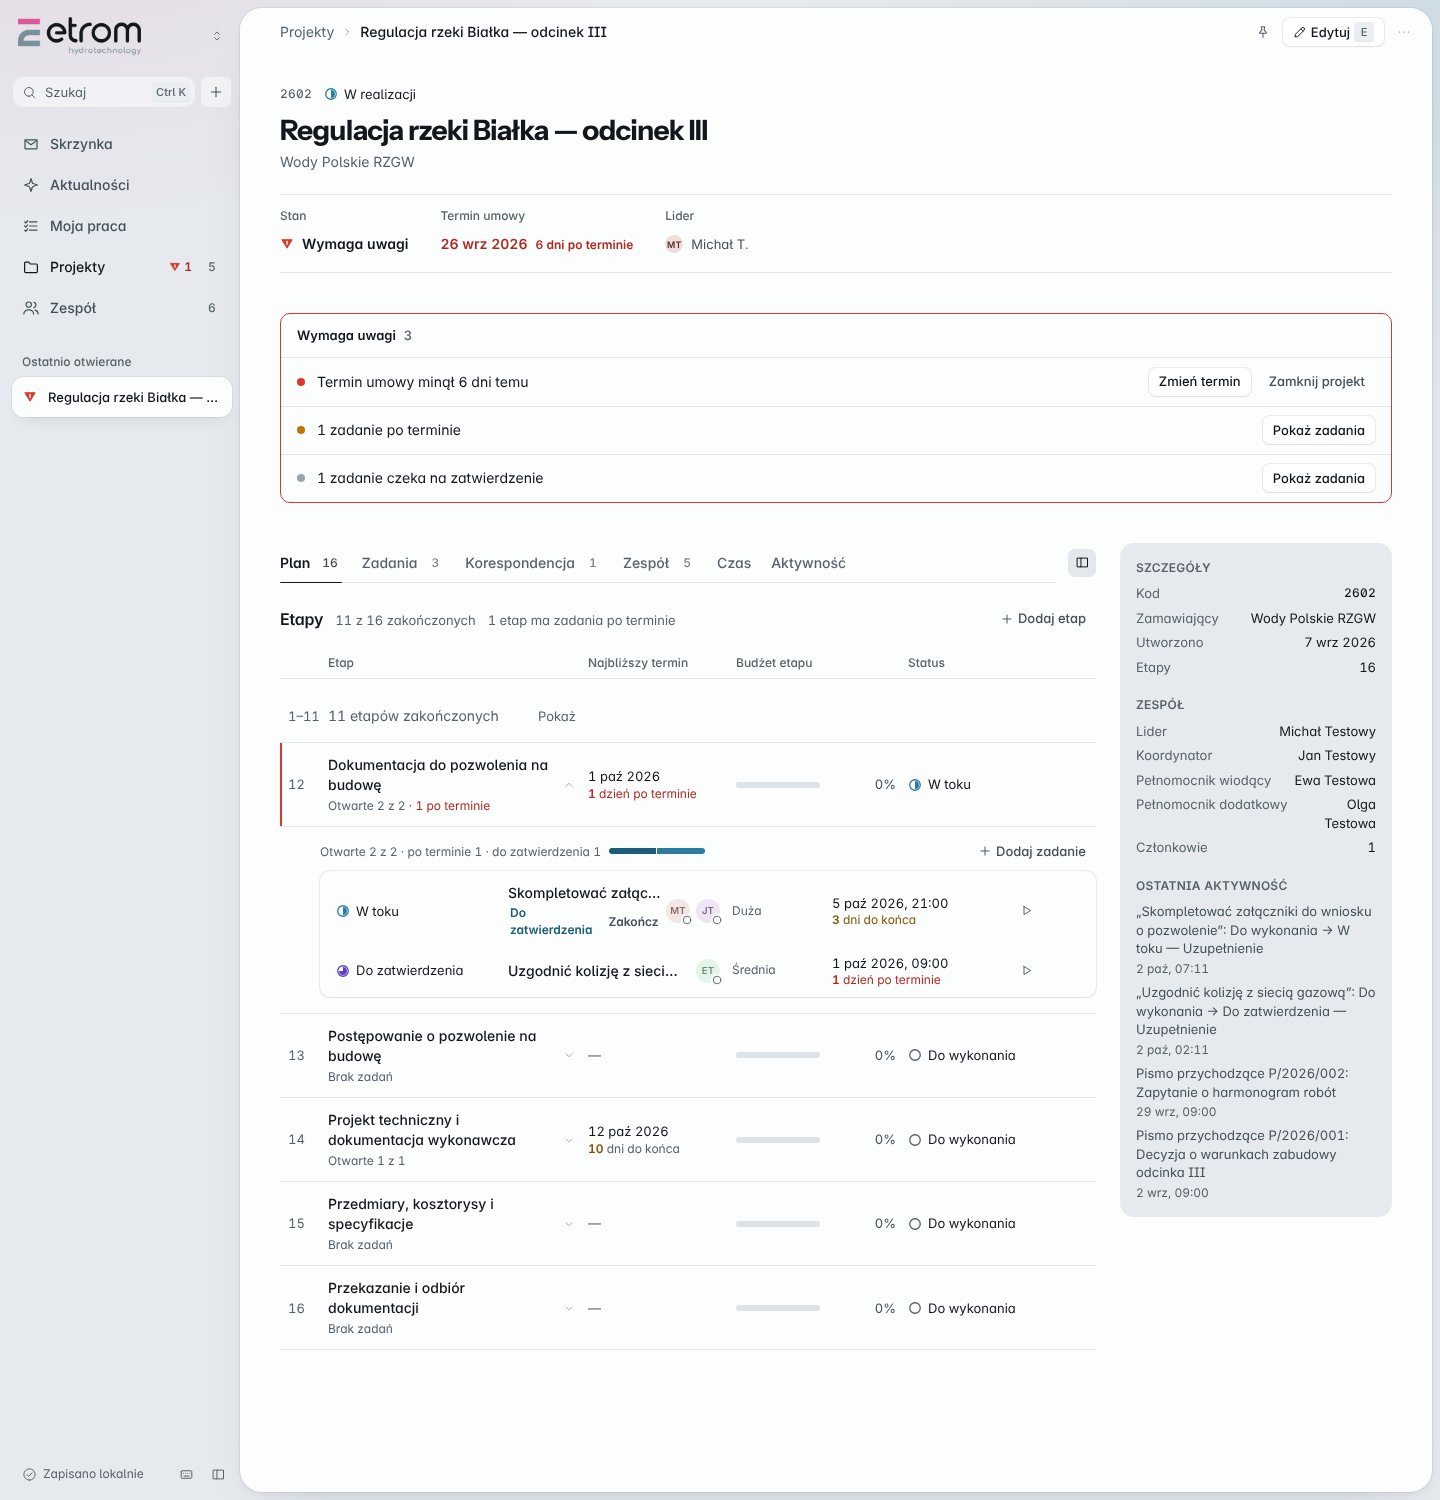
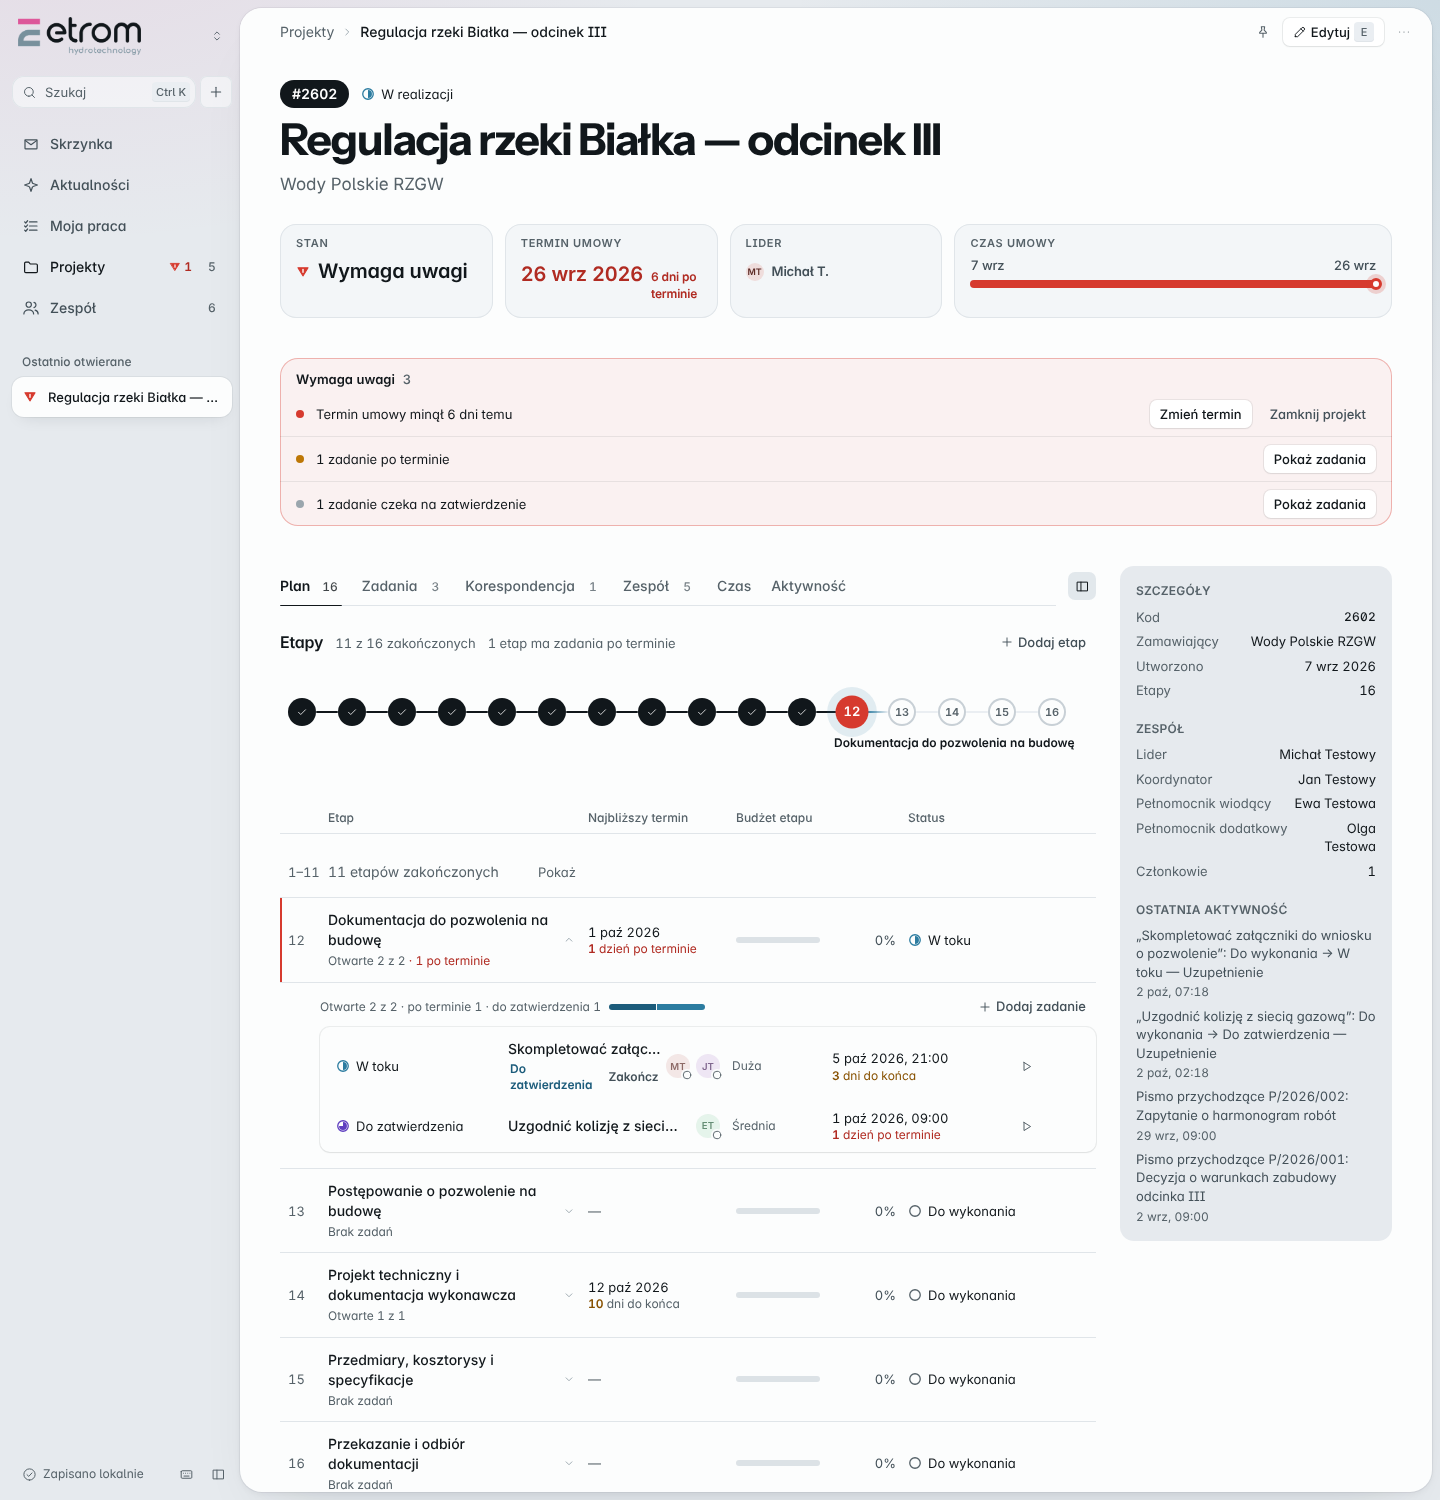
Widok projektu: kafelki wskaźników, wstęga czasu umowy, oś przebiegu etapów, miękki blok uwagi
Claude-Session: https://claude.ai/code/session_01K4hy1AbaUhrYWgauQ4MMbV

diff --git a/styles/polish.css b/styles/polish.css
@@ -77,3 +77,50 @@ body, .app {
 .pf-table .pf-leader > span:not(.avatar) { display: none; }
 .pf-table .col-team { width: 3.75rem; }
 .pf-table .col-time { width: 10.5rem; }
+
+/* =========================================================
+   Widok projektu
+   ========================================================= */
+.pd-head { gap: var(--space-2); }
+.pd-head__title { font-size: 2.75rem; font-weight: 700; letter-spacing: -0.035em; line-height: 1.08; }
+.pd-head__client { font-size: 1.0625rem; }
+.pd-head__id .pf-num--pill { font-size: var(--fs-md); padding: 4px 12px; }
+
+/* kafelki wskaźników */
+.pd-props { display: grid; grid-template-columns: repeat(auto-fit, minmax(11rem, 1fr)); gap: var(--space-3); padding: 0; border: 0; margin-top: var(--space-5); }
+.pd-prop { padding: var(--space-3) var(--space-4); border-radius: 16px; background: var(--wash); box-shadow: inset 0 0 0 1px var(--line); align-content: start; }
+.pd-prop__label { text-transform: uppercase; letter-spacing: .06em; font-size: .6875rem; font-weight: 600; }
+.pd-prop__value { font-size: 1.25rem; font-weight: 650; letter-spacing: -0.01em; }
+.pd-prop--ribbon { grid-column: span 2; }
+.pd-prop--ribbon .pc-ribbon { width: 100%; --pc-accent: var(--flow); margin: 0; padding: 0; }
+.pd-prop--ribbon .pc-ribbon__dates { font-size: var(--fs-sm); font-weight: 500; color: var(--ink-2); }
+.pd-prop--ribbon .pc-ribbon__track { height: 8px; }
+.pd-prop--ribbon .pc-ribbon.is-late { --pc-accent: var(--alarm); }
+.pd-edit { font-size: inherit; }
+.pd-edit .t-num { font-weight: 650; }
+
+/* „Wymaga uwagi” — miękki panel zamiast ramki */
+.pd-attention { border: 0; border-radius: 18px; background: var(--wash); box-shadow: inset 0 0 0 1px var(--line); overflow: hidden; }
+.pd-attention:has(.pd-attention__item--alarm) { background: color-mix(in srgb, var(--alarm) 6%, var(--sheet)); box-shadow: inset 0 0 0 1px color-mix(in srgb, var(--alarm) 35%, transparent); }
+.pd-attention:has(.pd-attention__item--warning):not(:has(.pd-attention__item--alarm)) { background: color-mix(in srgb, var(--warn) 7%, var(--sheet)); box-shadow: inset 0 0 0 1px color-mix(in srgb, var(--warn) 35%, transparent); }
+.pd-attention__title { border-bottom: 0; padding-bottom: var(--space-1); }
+.pd-attention__item { min-height: 2.5rem; }
+.pd-attention__item + .pd-attention__item { border-top: 1px solid color-mix(in srgb, var(--ink) 8%, transparent); }
+.pd-attention__text { font-size: var(--fs-sm); }
+
+/* oś przebiegu */
+.jr { display: flex; align-items: flex-start; gap: 0; margin: var(--space-4) 0 var(--space-5); padding: var(--space-3) var(--space-2) 2.75rem; overflow-x: auto; list-style: none; scrollbar-width: thin; }
+.jr__node { position: relative; display: flex; flex: 1 0 auto; min-width: 1.75rem; align-items: flex-start; }
+.jr__node:not(:last-child)::after { content: ""; position: absolute; left: 1.75rem; right: 0; top: 13px; height: 2px; background: var(--wash-2); border-radius: 2px; }
+.jr__node--done:not(:last-child)::after { background: var(--ink); }
+.jr__node.is-current:not(:last-child)::after { background: linear-gradient(90deg, var(--flow), var(--wash-2)); }
+.jr__dot { position: relative; z-index: 1; display: grid; place-items: center; flex: none; width: 1.75rem; height: 1.75rem; border-radius: 50%; background: var(--sheet); box-shadow: inset 0 0 0 2px var(--line-strong); color: var(--ink-3); font-size: .6875rem; font-weight: 600; }
+.jr__node--done .jr__dot { background: var(--ink); box-shadow: none; color: var(--on-ink); }
+.jr__node--working .jr__dot { background: var(--flow); box-shadow: 0 0 0 5px var(--flow-ring); color: #fff; }
+.jr__node.is-current .jr__dot { transform: scale(1.18); }
+.jr__node--working.is-current .jr__dot { animation: jr-pulse 2.4s ease-in-out infinite; }
+.jr__node.is-late .jr__dot { box-shadow: 0 0 0 3px var(--alarm-wash), inset 0 0 0 2px var(--alarm); color: var(--alarm-ink); }
+.jr__node--working.is-late .jr__dot { background: var(--alarm); color: #fff; box-shadow: 0 0 0 5px var(--alarm-wash); }
+.jr__label { position: absolute; top: 2.25rem; left: -0.25rem; white-space: nowrap; font-size: var(--fs-xs, .75rem); font-weight: 600; color: var(--ink); }
+@keyframes jr-pulse { 0%, 100% { box-shadow: 0 0 0 4px var(--flow-ring); } 50% { box-shadow: 0 0 0 9px transparent; } }
+@media (prefers-reduced-motion: reduce) { .jr__node--working.is-current .jr__dot { animation: none; } }

diff --git a/src/ui/stageList.js b/src/ui/stageList.js
@@ -174,6 +174,22 @@
     return n;
   }
 
+  /** Oś przebiegu: jedna kropka na etap — zakończone, w toku (świeci), zaległe, przyszłe. */
+  function journey(project, ctx) {
+    var firstOpen = -1;
+    project.stages.forEach(function (st, i) { if (firstOpen < 0 && st.status !== 'done') firstOpen = i; });
+    var nodes = project.stages.map(function (stage, index) {
+      var late = stage.status !== 'done' && Tasks.taskStats(stage.tasks || []).overdue > 0;
+      var state = stage.status === 'done' ? 'done' : (stage.status === 'working' ? 'working' : 'todo');
+      var current = index === firstOpen;
+      return D.el('li', { class: 'jr__node jr__node--' + state + (late ? ' is-late' : '') + (current ? ' is-current' : ''), attrs: { 'data-tooltip': (index + 1) + '. ' + Model.describeStage(stage).name + ' — ' + (E.Model.STAGE_STATUS ? E.Model.STAGE_STATUS[stage.status] || '' : '') } }, [
+        D.el('span', { class: 'jr__dot' }, [state === 'done' ? Icons.icon('check', 12) : D.el('span', { class: 't-num', text: String(index + 1) })]),
+        current ? D.el('span', { class: 'jr__label', text: Model.describeStage(stage).name }) : null
+      ]);
+    });
+    return D.el('ol', { class: 'jr', attrs: { 'aria-label': 'Przebieg etapów' } }, nodes);
+  }
+
   function stageList(project, ctx) {
     var count = project.stages.length;
     var stats = Progress.projectProgress(project);
@@ -229,6 +245,7 @@
           addStageButton(project, ctx.actions)
         ])
       ]),
+      journey(project, ctx),
       D.el('div', { class: 'plan-row plan-row--head', attrs: { 'aria-hidden': 'true' } }, [
         D.el('span', { text: 'Etap' }), D.el('span', { text: 'Najbliższy termin' }), D.el('span', { text: 'Budżet etapu' }), D.el('span', { text: 'Status' }), D.el('span')
       ]),

diff --git a/tests/browser/smoke.js b/tests/browser/smoke.js
@@ -1007,8 +1007,8 @@ async function main() {
     check('lista projektów nie ma paska stanu portfela (analiza trafi do osobnej zakładki)',
       await evaluate('return !document.querySelector(".pf-strip") && document.getElementById("portfolio").hidden;'));
     await go('#/projekty/' + id2);
-    check('nagłówek projektu ma jeden rząd właściwości: stan, termin umowy, lider (bez postępu i godzin)',
-      await evaluate('const l = [...document.querySelectorAll(".pd-props .pd-prop__label")].map(x => x.textContent).join(","); return l === "Stan,Termin umowy,Lider" && /Wymaga uwagi/.test(document.querySelector(".pd-state").textContent) && !document.querySelector(".pd-progress");'));
+    check('nagłówek projektu ma kafelki: stan, termin umowy, lider, czas umowy (bez postępu i godzin)',
+      await evaluate('const l = [...document.querySelectorAll(".pd-props .pd-prop__label")].map(x => x.textContent).join(","); return l === "Stan,Termin umowy,Lider,Czas umowy" && /Wymaga uwagi/.test(document.querySelector(".pd-state").textContent) && !document.querySelector(".pd-progress");'));
     check('„Wymaga uwagi” w projekcie wylicza powody z działaniami',
       await evaluate('const a = document.querySelector(".pd-attention"); return !!a && a.querySelectorAll(".pd-attention__item").length >= 1 && !!a.querySelector(".pd-attention__actions button") && /Wymaga uwagi/.test(a.querySelector(".pd-attention__title").textContent);'));
     check('status i stan to dwa osobne wymiary: status jest przyciskiem, stan nie',

diff --git a/src/ui/projectDetail.js b/src/ui/projectDetail.js
@@ -113,8 +113,9 @@
     return D.el('dl', { class: 'pd-props' }, [
       prop('Stan', [D.el('span', { class: 'pd-state', attrs: { 'data-tooltip': health.reasons.map(function (r) { return r.text; }).join('; ') || null } }, [Sig.datum(health.level, { label: false }), D.el('span', { text: stateLabel })])]),
       prop('Termin umowy', deadlineProp(project, ctx, now)),
-      prop('Lider', [PL.leaderCell(project, ctx)])
-    ]);
+      prop('Lider', [PL.leaderCell(project, ctx)]),
+      PL.timeRibbon(project, now) ? D.el('div', { class: 'pd-prop pd-prop--ribbon' }, [D.el('dt', { class: 'pd-prop__label', text: 'Czas umowy' }), D.el('dd', { class: 'pd-prop__value' }, [PL.timeRibbon(project, now)])]) : null
+    ].filter(Boolean));
   }
 
   /* ---------- „Wymaga uwagi”: lista z działaniami ---------- */
@@ -157,7 +158,7 @@
     var health = Insight.health(project, now);
     return D.el('header', { class: 'pd-head' }, [
       D.el('div', { class: 'pd-head__id' }, [
-        D.el('span', { class: 'code', text: project.code }),
+        D.el('span', { class: 'pf-num pf-num--pill t-num', text: '#' + project.code }),
         statusControl(project, ctx)
       ]),
       D.el('h1', { class: 'pd-head__title', text: project.name, attrs: { id: 'project-title' } }),

diff --git a/src/ui/projectList.js b/src/ui/projectList.js
@@ -563,6 +563,7 @@
     allViews: allViews,
     COLUMNS: COLUMNS,
     projectHref: projectHref,
+    timeRibbon: timeRibbon,
     projectMenuItems: projectMenuItems,
     PAGE_SIZE: PAGE_SIZE
   };
